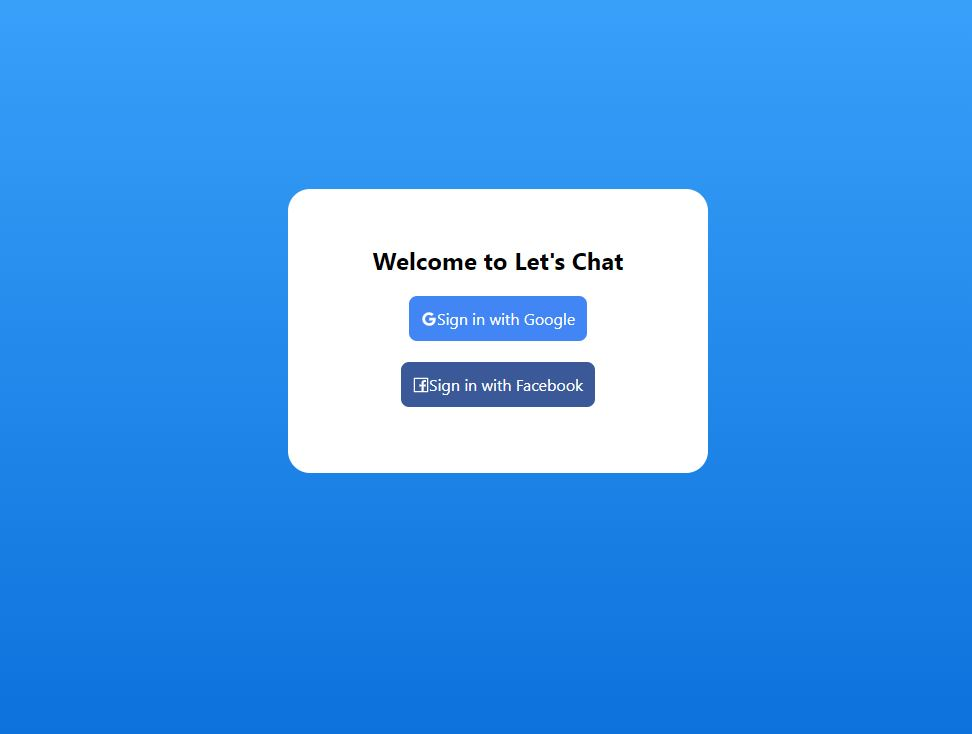
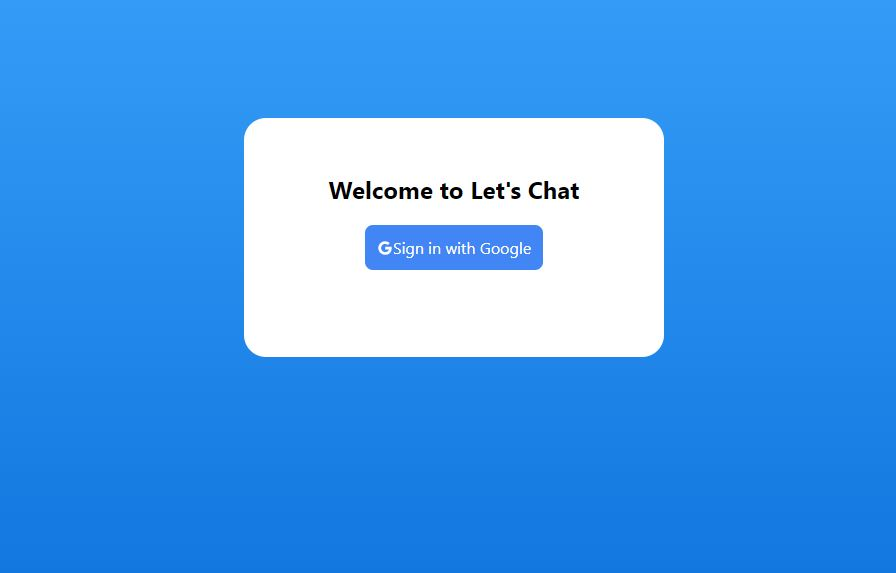
edits

Changed region(s): [[0.25, 0.2077, 0.75, 0.6527], [0.3438, 0.2967, 0.6562, 0.5637]]

diff --git a/src/components/Login.js b/src/components/Login.js
@@ -16,12 +16,12 @@ const Login=()=>{
                         Sign in with Google
                 </div>
                 <br /> <br />
-                <div 
+                {/* <div 
                 className="login-button facebook"
                 onClick={()=>auth.signInWithRedirect(new firebase.auth.FacebookAuthProvider())}>
                     <FacebookOutlined />
                         Sign in with Facebook
-                </div>
+                </div> */}
 
             </div>
         </div>
